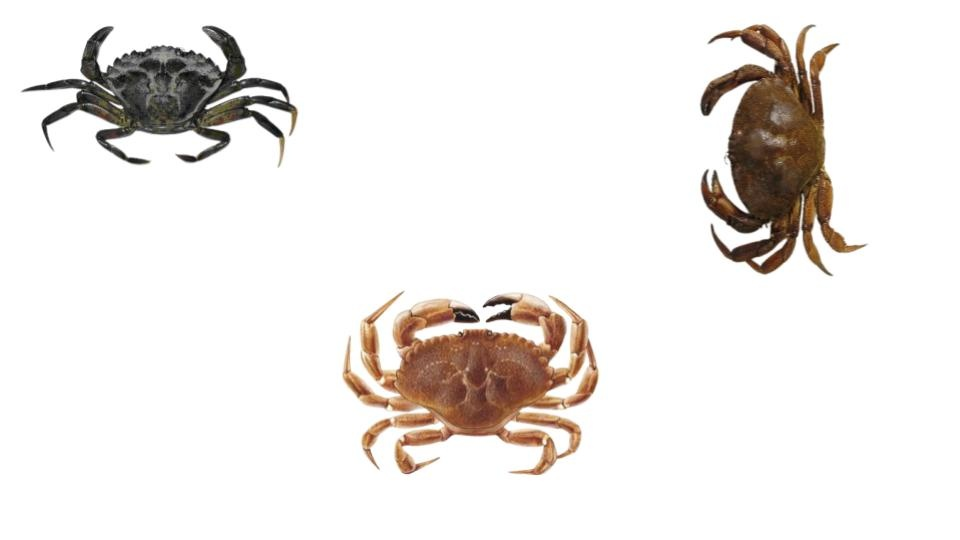
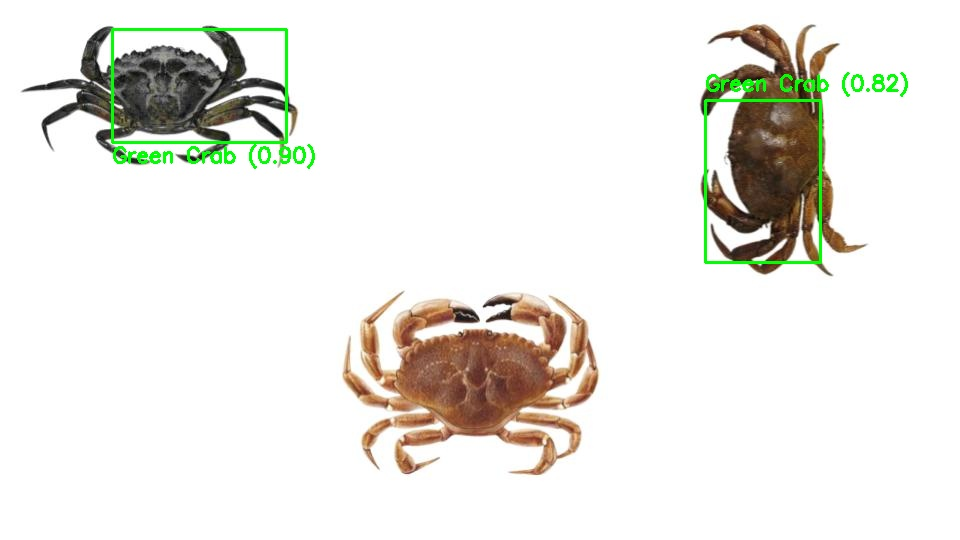
uncommit gripper code

Changed region(s): [[0.7188, 0.1185, 0.9688, 0.5037], [0.0938, 0.0296, 0.3438, 0.3259]]

diff --git a/top_side/mainServer.py b/top_side/mainServer.py
@@ -7,7 +7,7 @@ import threading
 #import the threaded files
 import joyServer
 import piServer
-#import gripperServer
+import gripperServer
 import laserServer  
 
 global ip_server
@@ -15,14 +15,14 @@ ip_server = "192.168.1.67" #192.168.1.100
 
 joystickCode = threading.Thread(target=joyServer.main, args = (ip_server,))
 inverseCode = threading.Thread(target=piServer.main, args = (ip_server,))
-#gripperCode = threading.Thread(target=gripperServer.main, args=(ip_server,))
+gripperCode = threading.Thread(target=gripperServer.main, args=(ip_server,))
 laserCode = threading.Thread(target=laserServer.main, args=(ip_server,))
 
 
 
 joystickCode.start()                                                                                                                            
 inverseCode.start()
-#gripperCode.start()
+gripperCode.start()
 laserCode.start()
 
 
@@ -30,5 +30,5 @@ laserCode.start()
 
 joystickCode.join()
 inverseCode.join()
-#gripperCode.join()
+gripperCode.join()
 laserCode.join()